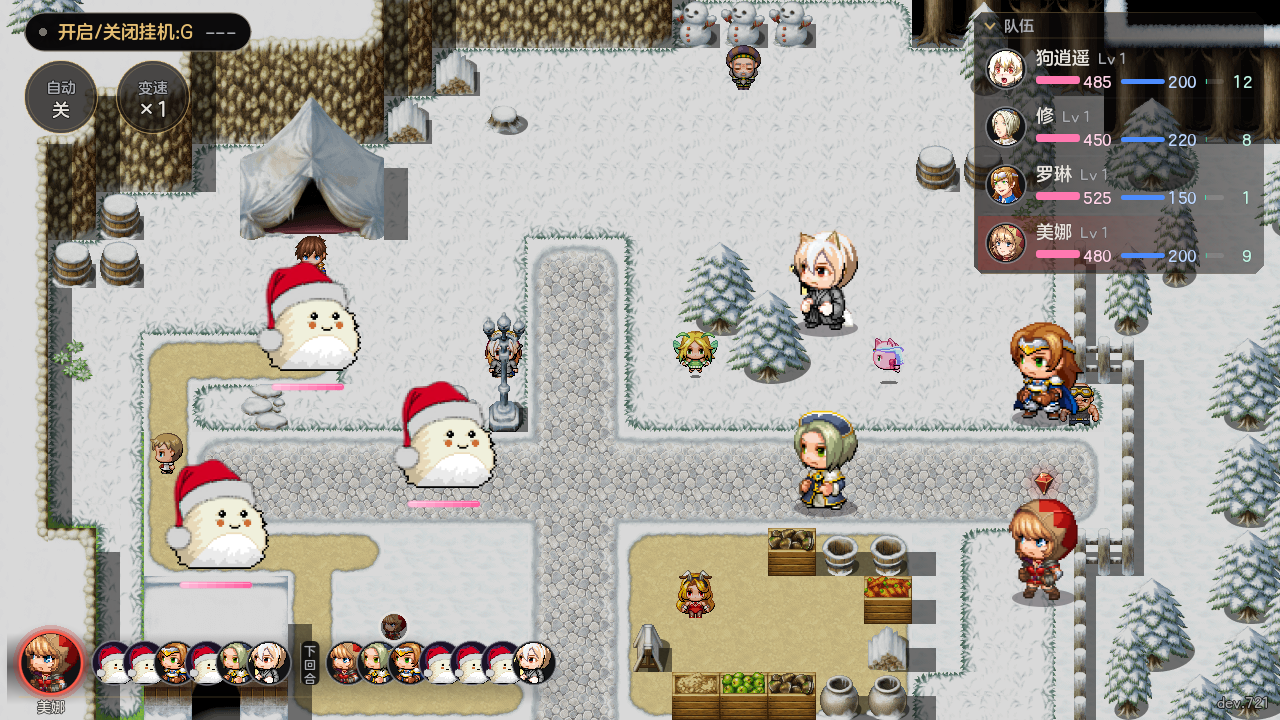
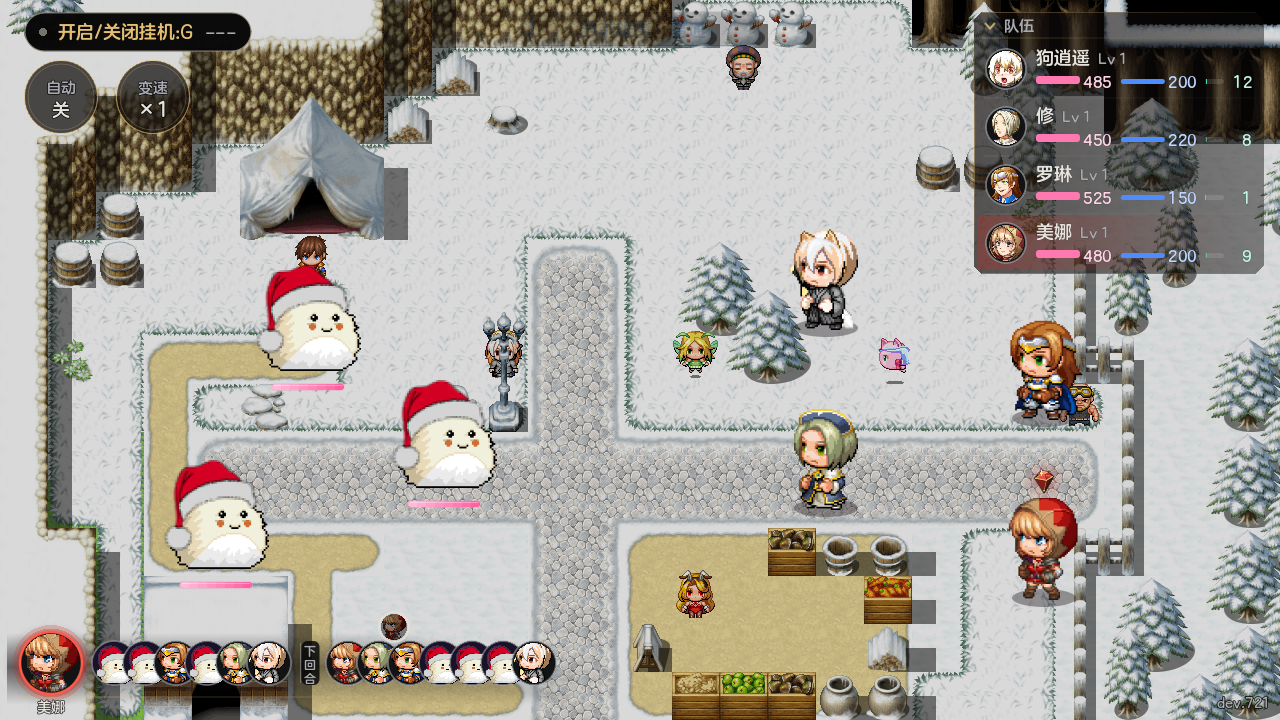
T196 Kyo 三审：宝石尖离头顶 3→5px
执行者: cc
核查: 待审查

diff --git a/00_项目管理/交付/luiluu_t196.md b/00_项目管理/交付/luiluu_t196.md
@@ -24,7 +24,7 @@
   - 小A P3-2：上抬与大型变身的夹取改按宝石实际高（`XTurnMarker.top_min()`＝冠＋亭＋描边余量＋浮动＋4），整颗不出画布上沿；专项加 top_min_by_gem、menu_inside_canvas_*。
 - Kyo 二审（11-18「A，然后宝石太高了，就头顶上一点就行」）：
   - 指令菜单（指令环／旧式指令窗）或技能／物品列表开着时宝石淡出，关掉再淡入（`XTurnMarker.menu_open`，并进 `blocked()`）；上抬让开、旧金虚线、avoid_rects／menu_shift／shift 全部删掉（上面两次返工里的右挪、上抬描述已作废）。
-  - 平时位置放低：尖离头顶 8→3px，浮动 2→1.5px（只往上浮）；仍水平居中，按精灵 `height()`（可见范围＋浮空）算头顶，大体型／变身同样适用。
+  - 平时位置放低：尖离头顶 8→3px（三审 Kyo「改成头顶5像素」再改 5px），浮动 2→1.5px（只往上浮）；仍水平居中，按精灵 `height()`（可见范围＋浮空）算头顶，大体型／变身同样适用。
 - `xconfig.gd`／`xconfig_transfer.gd`：加设置键 `codexPartyExpanded`（默认 true，归「可导出设置」）。
 - 只在新界面（`XUiSkin.on()`）里有；旧界面不加（理由见下「没做／偏离」）。
 - 回退：`XPartyFold.ENABLED = false`（没有栏头、不裁剪，各行原位）；`XTurnMarker.ENABLED = false`（没有头顶标记，队伍栏那一行的左外小箭头回来）。
